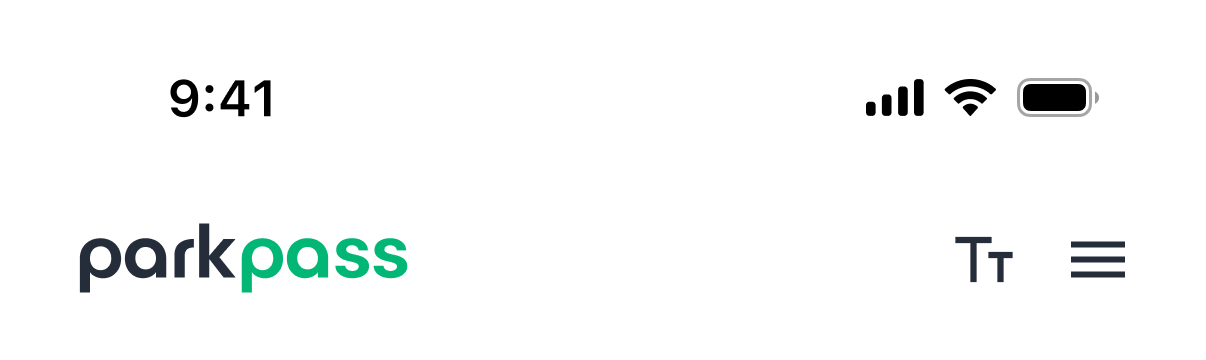
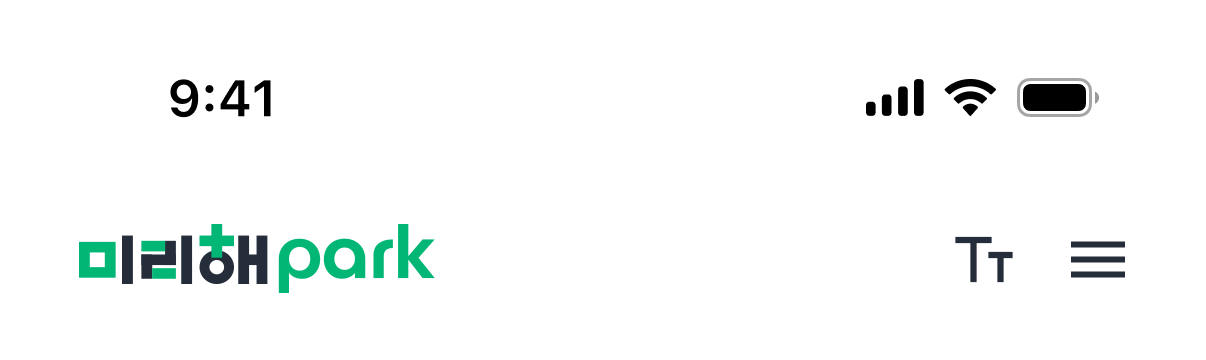
미리해파크로 변경

Changed region(s): [[0.0614, 0.6111, 0.3682, 0.825]]

diff --git a/landing-parkpass/index.html b/landing-parkpass/index.html
@@ -3,7 +3,7 @@
   <head>
     <meta charset="UTF-8" />
     <meta name="viewport" content="width=device-width, initial-scale=1.0, maximum-scale=1.0, minimum-scale=1.0, user-scalable=no, viewport-fit=cover" />
-    <meta name="apple-mobile-web-app-title" content="파크패스" />
+    <meta name="apple-mobile-web-app-title" content="미리해파크" />
     <meta name="apple-mobile-web-app-capable" content="yes" />
     <link rel="apple-touch-icon" sizes="180x180" href="images/favicon/apple-touch-icon.png" />
     <link rel="icon" type="image/png" sizes="192x192" href="images/favicon/android-chrome-192x192.png" />
@@ -16,11 +16,11 @@
     <meta name="theme-color" content="#ffffff" />
     <meta name="apple-mobile-web-app-status-bar-style" content="default" />
     <meta property="og:url" content="" />
-    <meta property="og:title" content="파크패스" />
+    <meta property="og:title" content="미리해파크" />
     <meta property="og:type" content="website" />
     <meta property="og:image" content="images/img/[email redacted]" />
-    <meta property="og:description" content="라운딩, 스코어카드, 구장 예약과 입출입까지 더 편하게 챙기는 파크패스" />
-    <title>파크패스 - 파크골프를 더 편하게 즐기는 앱</title>
+    <meta property="og:description" content="라운딩, 스코어카드, 구장 예약과 입출입까지 더 편하게 챙기는 미리해파크" />
+    <title>미리해파크 - 파크골프를 더 편하게 즐기는 앱</title>
     <script>
       document.documentElement.classList.add('motion-enabled');
     </script>
@@ -81,9 +81,9 @@
         <div class="page page-intro" id="page-1">
           <div class="title head">
             <div class="left">
-              <h1><strong>파크패스</strong>로 함께 라운딩하고</h1>
+              <h1><strong>미리해파크</strong>로 함께 라운딩하고</h1>
               <h1>스코어와 구장 예약까지 간편하게</h1>
-              <h3>파크골프의 하루를 파크패스로 가볍게 챙겨보세요</h3>
+              <h3>파크골프의 하루를 미리해파크로 가볍게 챙겨보세요</h3>
 
               <a href="https://onelinkto.app/r/parkpass" target="_blank" class="btn-download"
                 ><div class="material-symbols-sharp">download</div>
@@ -108,17 +108,17 @@
               <p>예약과 입출입, 공지와 알림도 놓치지 않도록</p>
             </div>
             <p class="overview__statement">
-              <span>파크골프를 즐기는 모든 순간을 파크패스로 <br />더 쉽고 편하게 이어가 보세요</span>
+              <span>파크골프를 즐기는 모든 순간을 미리해파크로 <br />더 쉽고 편하게 이어가 보세요</span>
             </p>
           </div>
           <!-- <div class="title">
-            <h1>파크패스 소개</h1>
+            <h1>미리해파크 소개</h1>
             <div class="text">
               <p>
                 라운딩 일정과 스코어 기록을 한곳에 모아, 매번 챙겨야 할 내용을 더 쉽게 확인할 수 있도록 만든 파크골프 앱입니다.<br />예약부터 알림, 구장 정보까지 필요한 순간에 바로 확인할
                 수 있게 담았습니다.
               </p>
-              <p>파크패스는 구장과 이용자가 같은 정보를 편하게 나눌 수 있도록 돕습니다. 예약 현황, 다가오는 라운딩, 알림 내용을 한 번에 확인해 파크골프가 더 자연스럽게 이어집니다.</p>
+              <p>미리해파크는 구장과 이용자가 같은 정보를 편하게 나눌 수 있도록 돕습니다. 예약 현황, 다가오는 라운딩, 알림 내용을 한 번에 확인해 파크골프가 더 자연스럽게 이어집니다.</p>
             </div>
           </div> -->
         </div>
@@ -463,7 +463,7 @@
         <div class="page page-trainer" id="page-3">
           <div class="primary">
             <div class="title center">
-              <p class="eyebrow">파크패스 도입</p>
+              <p class="eyebrow">미리해파크 도입</p>
               <h1><strong>구장 관리자님</strong>도</h1>
               <h1>예약과 입출입을 편하게 운영하세요</h1>
               <div class="text">
@@ -488,7 +488,7 @@
                 <h2>처음 쓰는 분도 천천히 따라올 수 있어요</h2>
                 <div class="text">
                   <p>
-                    파크패스는 매뉴얼이 필요없을 정도로 쉽게 사용할 수 있지만<br />
+                    미리해파크는 매뉴얼이 필요없을 정도로 쉽게 사용할 수 있지만<br />
                     처음 만나는 분도 어렵지 않게 볼 수 있도록 정리했어요.<br />
                     필요한 메뉴부터 하나씩 확인해보세요.
                   </p>
@@ -568,7 +568,7 @@
               <h1>Download</h1>
               <div class="text">
                 <p>
-                  파크패스 앱을 지금 바로 다운로드하세요! <br />
+                  미리해파크 앱을 지금 바로 다운로드하세요! <br />
                   라운딩, 스코어카드, 구장 예약과 입출입까지 한 곳에서 편하게 챙길 수 있어요.
                 </p>
               </div>
@@ -662,9 +662,9 @@
                 </div>
               </li>
               <li class="item">
-                <div class="thumb"><img src="images/img/news-generated/parkpass-news-overview-v2.png" alt="파크패스 앱 기능을 보여주는 파크골프 썸네일" /></div>
+                <div class="thumb"><img src="images/img/news-generated/parkpass-news-overview-v2.png" alt="미리해파크 앱 기능을 보여주는 파크골프 썸네일" /></div>
                 <div class="infos">
-                  <h5>파크패스</h5>
+                  <h5>미리해파크</h5>
                   <h4>파크골프를 챙기는 일이 조금 더 편해져요.</h4>
                   <p>라운딩, 구장 소식, 예약, 알림을 한곳에 모아 편하게 확인해보세요.</p>
                   <p class="date">2026년 5월 21일</p>
@@ -703,7 +703,7 @@
         <a href="#" class="close"></a>
         <h2>개인정보 이용 및 수집</h2>
         <div>
-          <p>① 파크패스는 개인정보 보유기간의 경과, 처리목적 달성 등 개인정보가 불필요하게 되었을 때에는 지체없이 해당 개인정보를 파기합니다.</p>
+          <p>① 미리해파크는 개인정보 보유기간의 경과, 처리목적 달성 등 개인정보가 불필요하게 되었을 때에는 지체없이 해당 개인정보를 파기합니다.</p>
           <p>&nbsp;</p>
           <p>
             ② 정보주체로부터 동의받은 개인정보 보유기간이 경과하거나 처리목적이 달성되었음에도 불구하고 다른 법령에 따라 개인정보를 계속 보존하여야 하는 경우에는, 해당 개인정보를
@@ -715,7 +715,7 @@
           <p>③ 개인정보 파기의 절차 및 방법은 다음과 같습니다.</p>
           <p>&nbsp;</p>
           <p>1. 파기절차</p>
-          <p>파크패스는 파기 사유가 발생한 개인정보를 선정하고, 개인정보 보호책임자의 승인을 받아 개인정보를 파기합니다.</p>
+          <p>미리해파크는 파기 사유가 발생한 개인정보를 선정하고, 개인정보 보호책임자의 승인을 받아 개인정보를 파기합니다.</p>
         </div>
       </div>
     </div>
@@ -1037,7 +1037,7 @@
             <div class="agree">
               <p class="agreement"><input type="checkbox" id="agree-mail" /><label for="agree-mail"></label>개인정보 이용 및 수집에 동의합니다.</p>
               <div class="privacy">
-                <p>① 파크패스는 개인정보 보유기간의 경과, 처리목적 달성 등 개인정보가 불필요하게 되었을 때에는 지체없이 해당 개인정보를 파기합니다.</p>
+                <p>① 미리해파크는 개인정보 보유기간의 경과, 처리목적 달성 등 개인정보가 불필요하게 되었을 때에는 지체없이 해당 개인정보를 파기합니다.</p>
                 <p>&nbsp;</p>
                 <p>
                   ② 정보주체로부터 동의받은 개인정보 보유기간이 경과하거나 처리목적이 달성되었음에도 불구하고 다른 법령에 따라 개인정보를 계속 보존하여야 하는 경우에는, 해당
@@ -1049,7 +1049,7 @@
                 <p>③ 개인정보 파기의 절차 및 방법은 다음과 같습니다.</p>
                 <p>&nbsp;</p>
                 <p>1. 파기절차</p>
-                <p>파크패스는 파기 사유가 발생한 개인정보를 선정하고, 개인정보 보호책임자의 승인을 받아 개인정보를 파기합니다.</p>
+                <p>미리해파크는 파기 사유가 발생한 개인정보를 선정하고, 개인정보 보호책임자의 승인을 받아 개인정보를 파기합니다.</p>
               </div>
               <dl>
                 <dt>이름(필수)</dt>